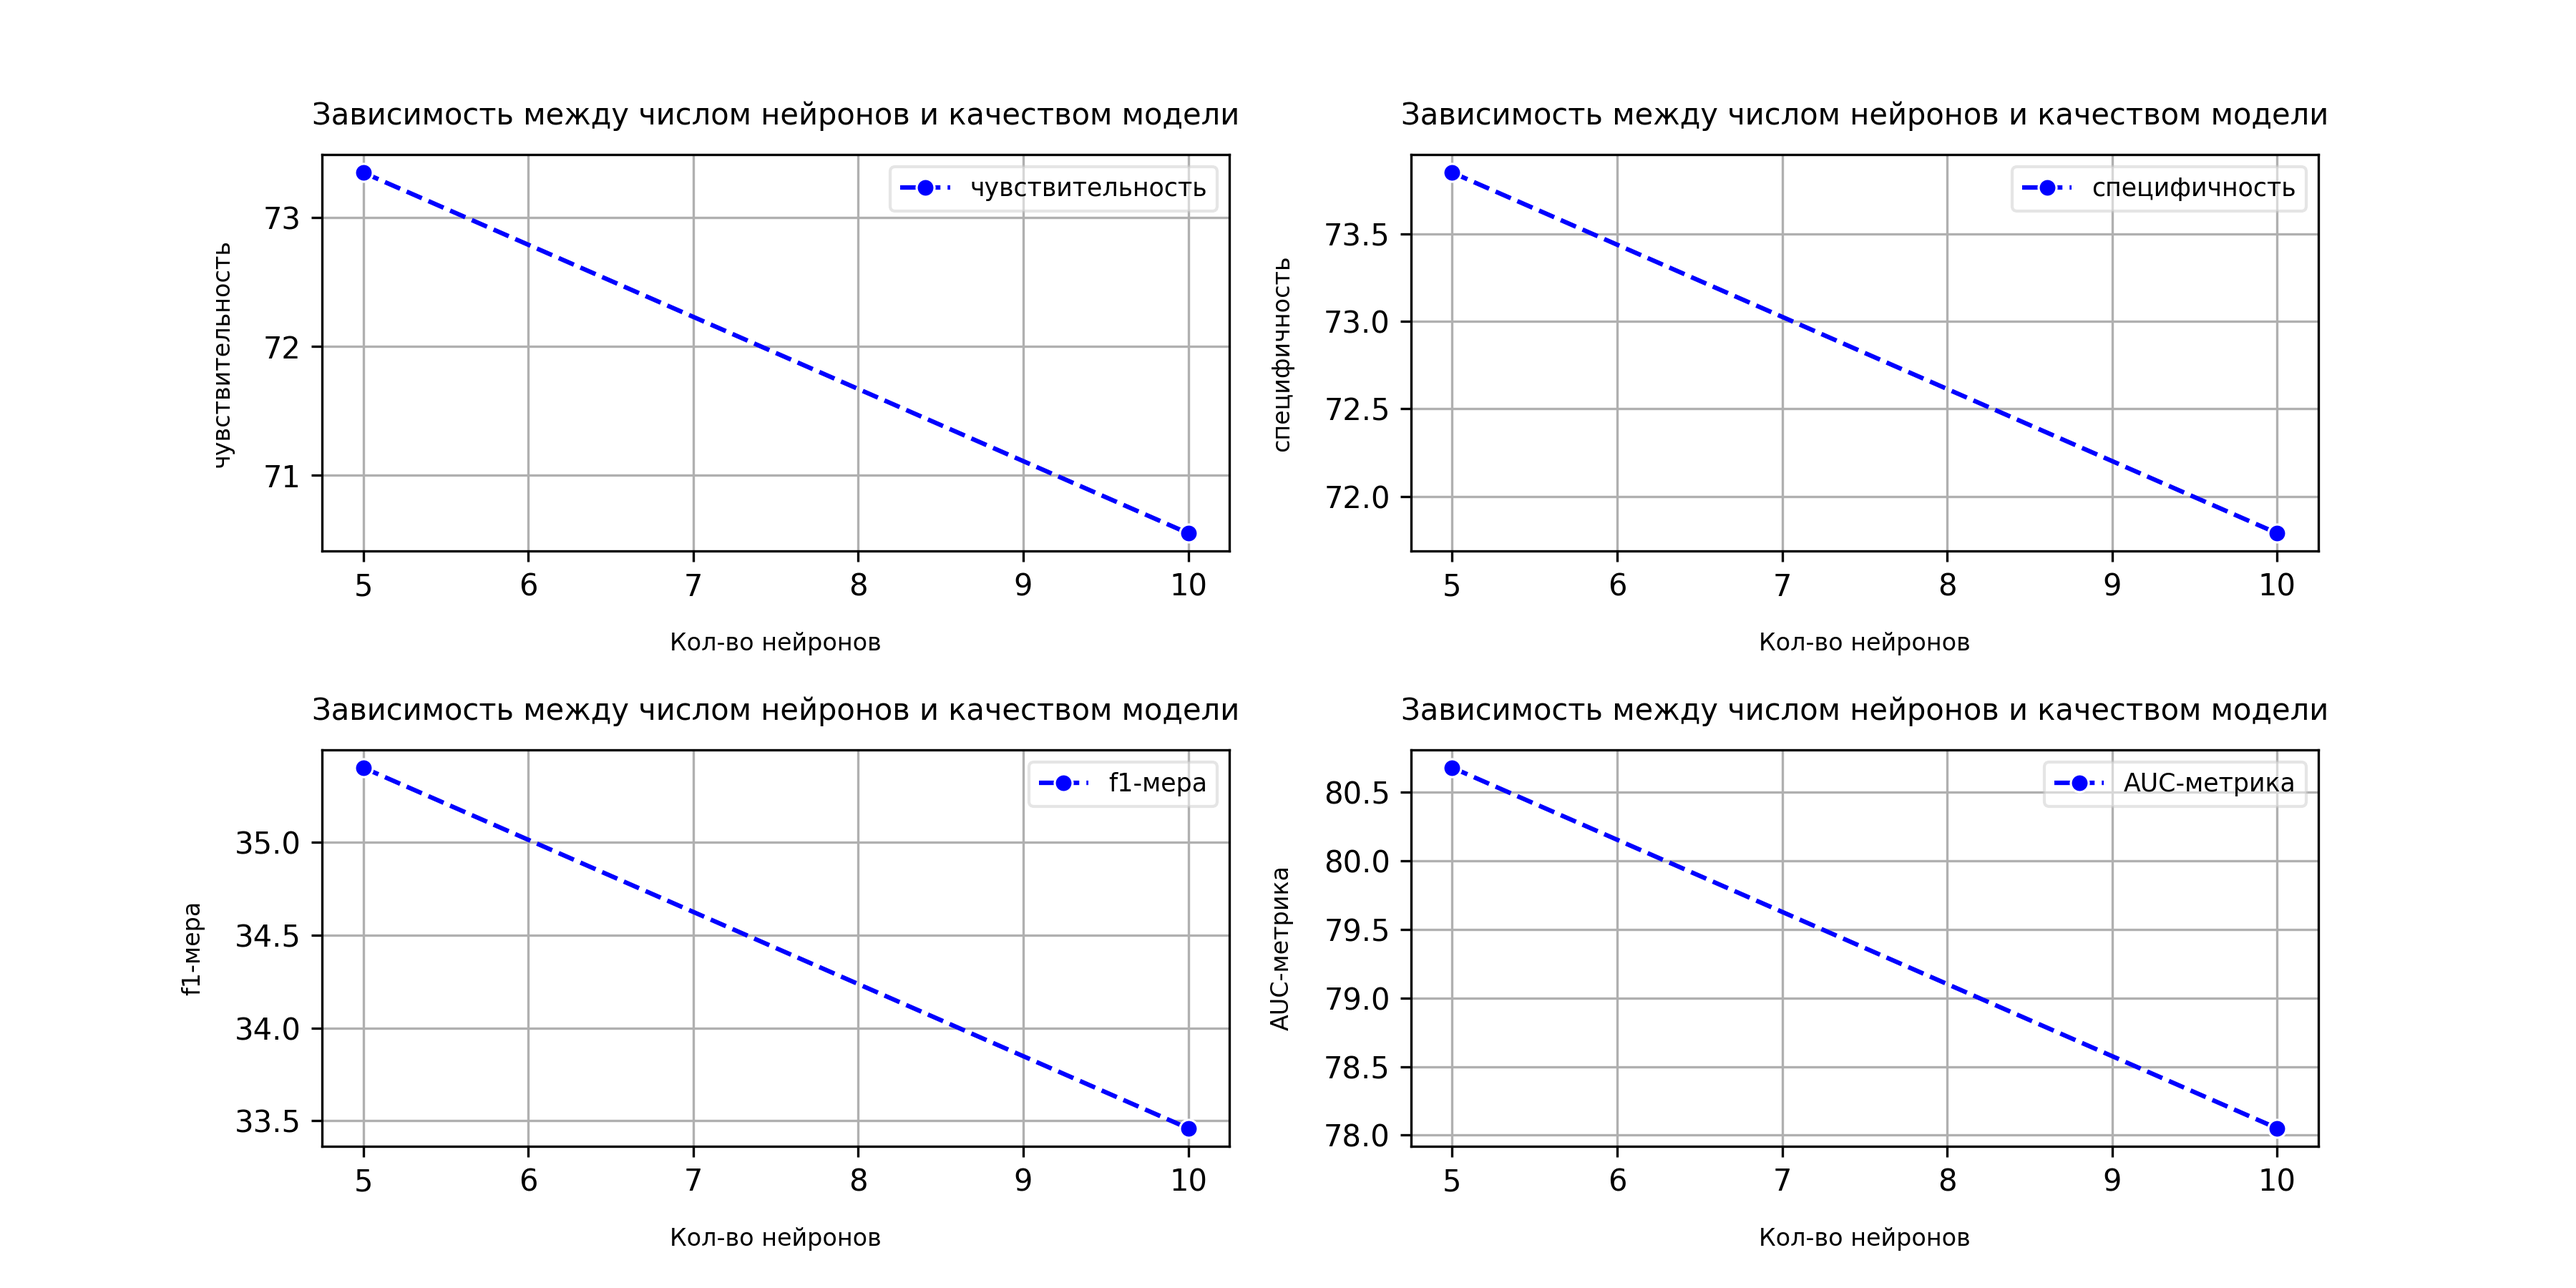
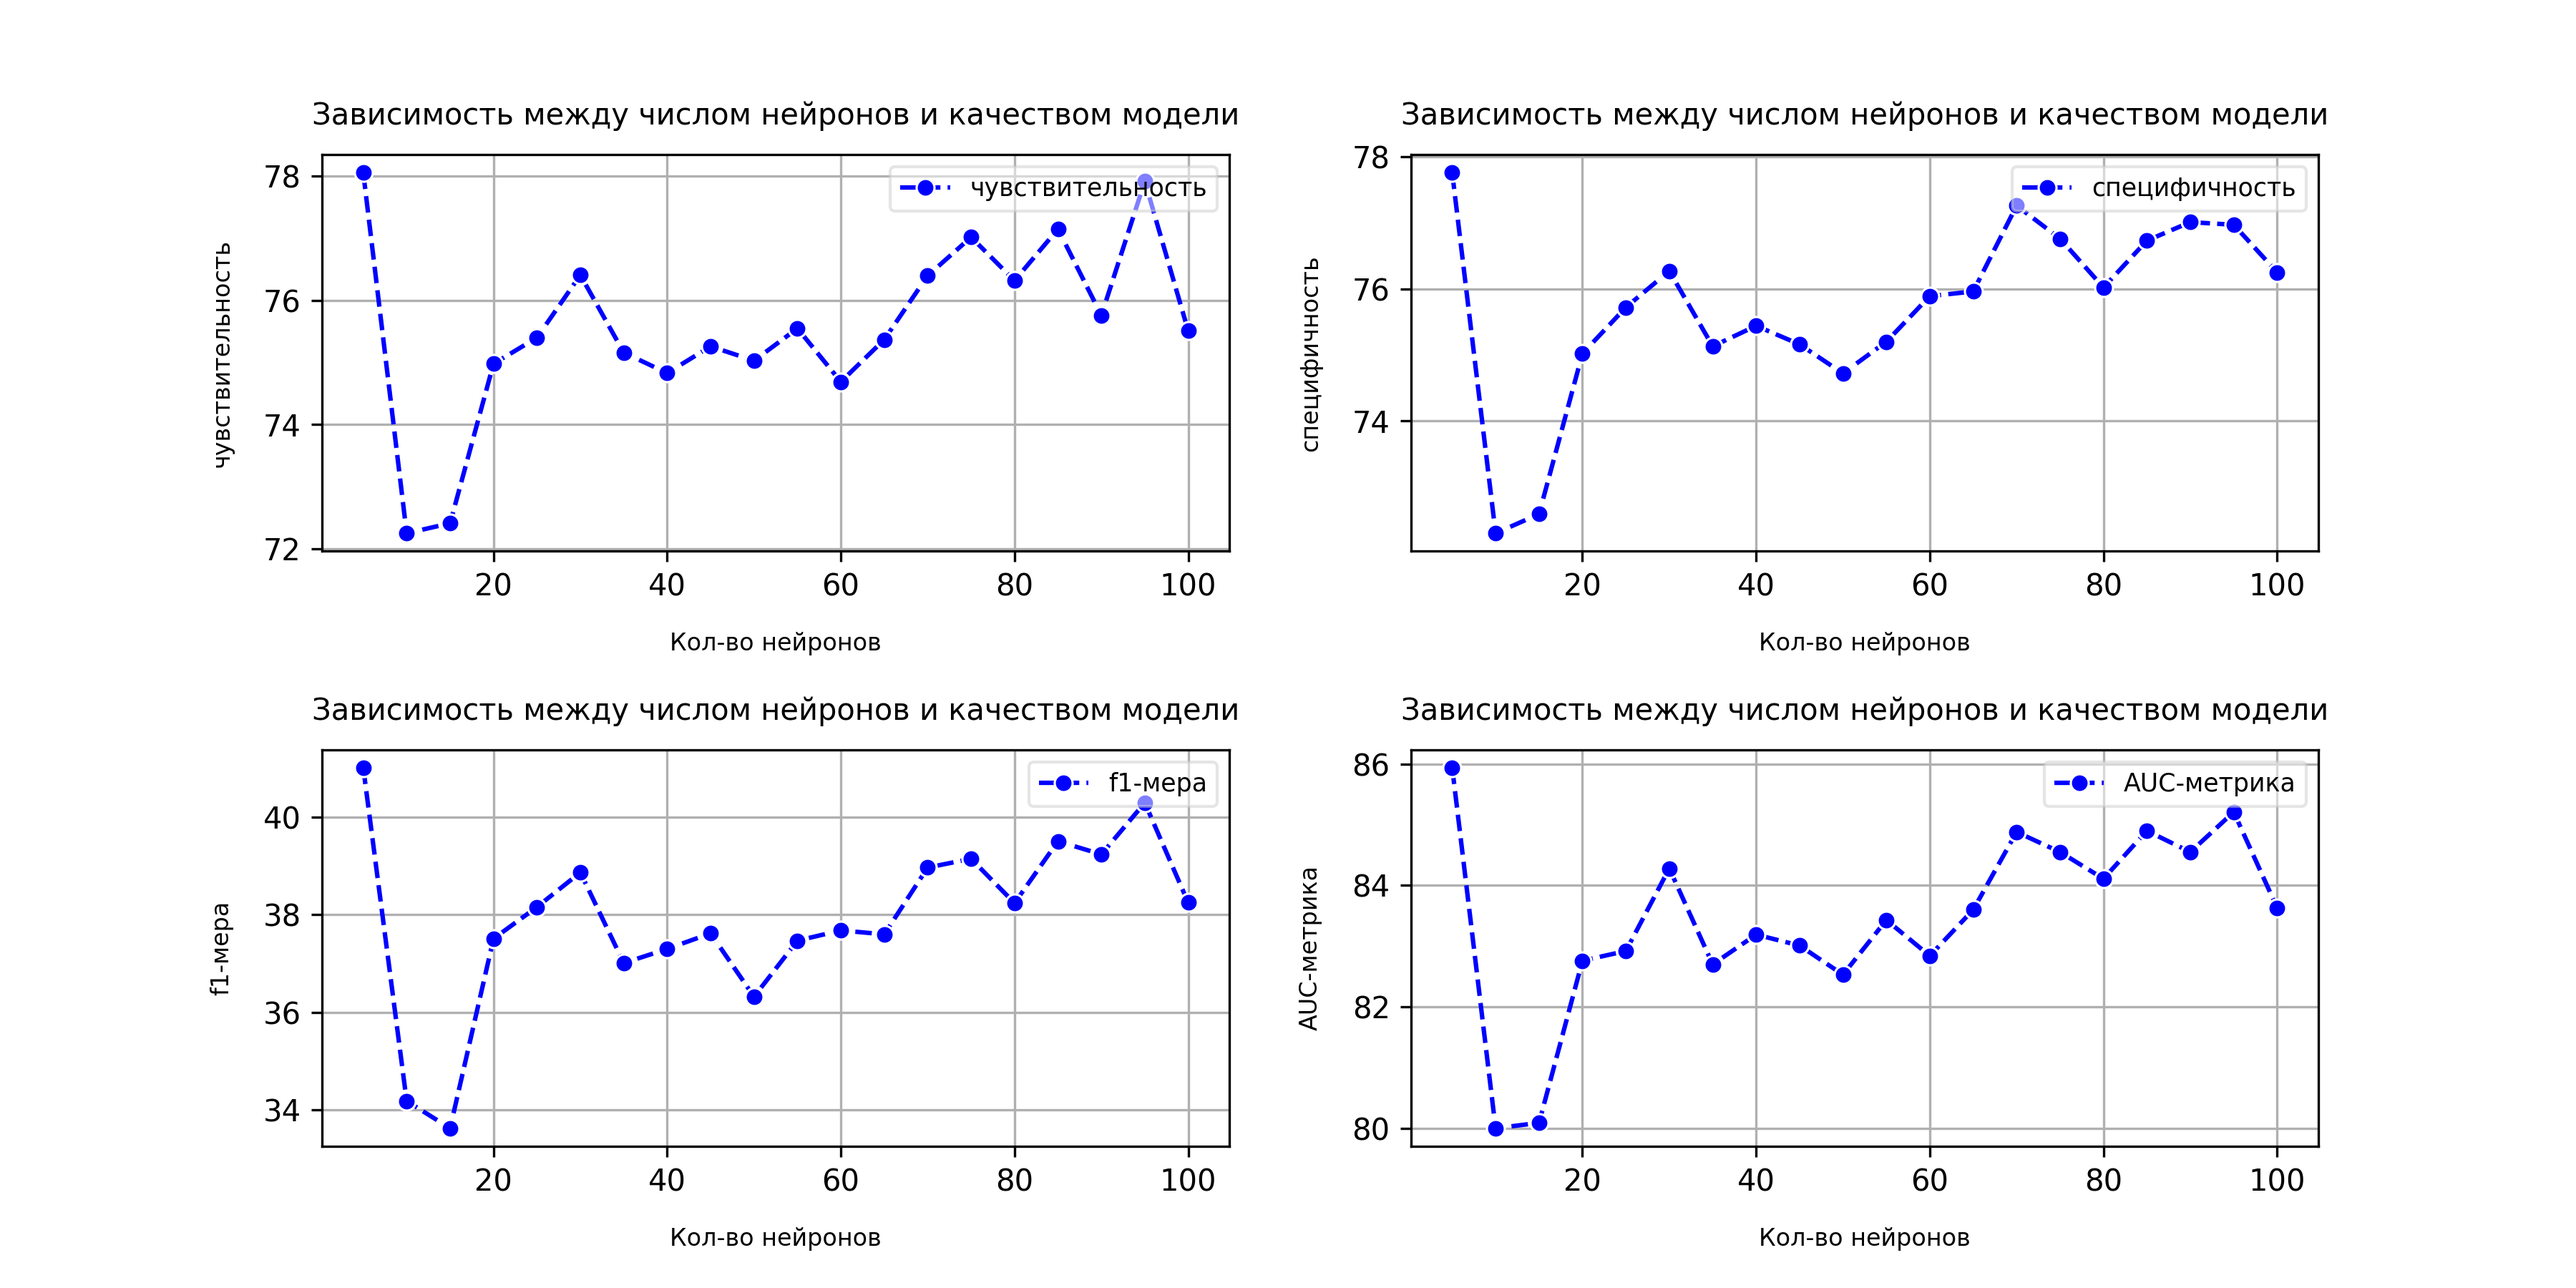
tuning hidden units

diff --git a/tuning.py b/tuning.py
@@ -15,8 +15,8 @@ print(df.head())
 print(df.shape)
 print(df.dtypes)
 
-# list_of_units = [u for u in range(5, 105, 5)]
-list_of_units = [5, 10]
+list_of_units = [u for u in range(5, 105, 5)]
+# list_of_units = [5, 10]
 metrics_by_units = []
 
 for u in list_of_units:
